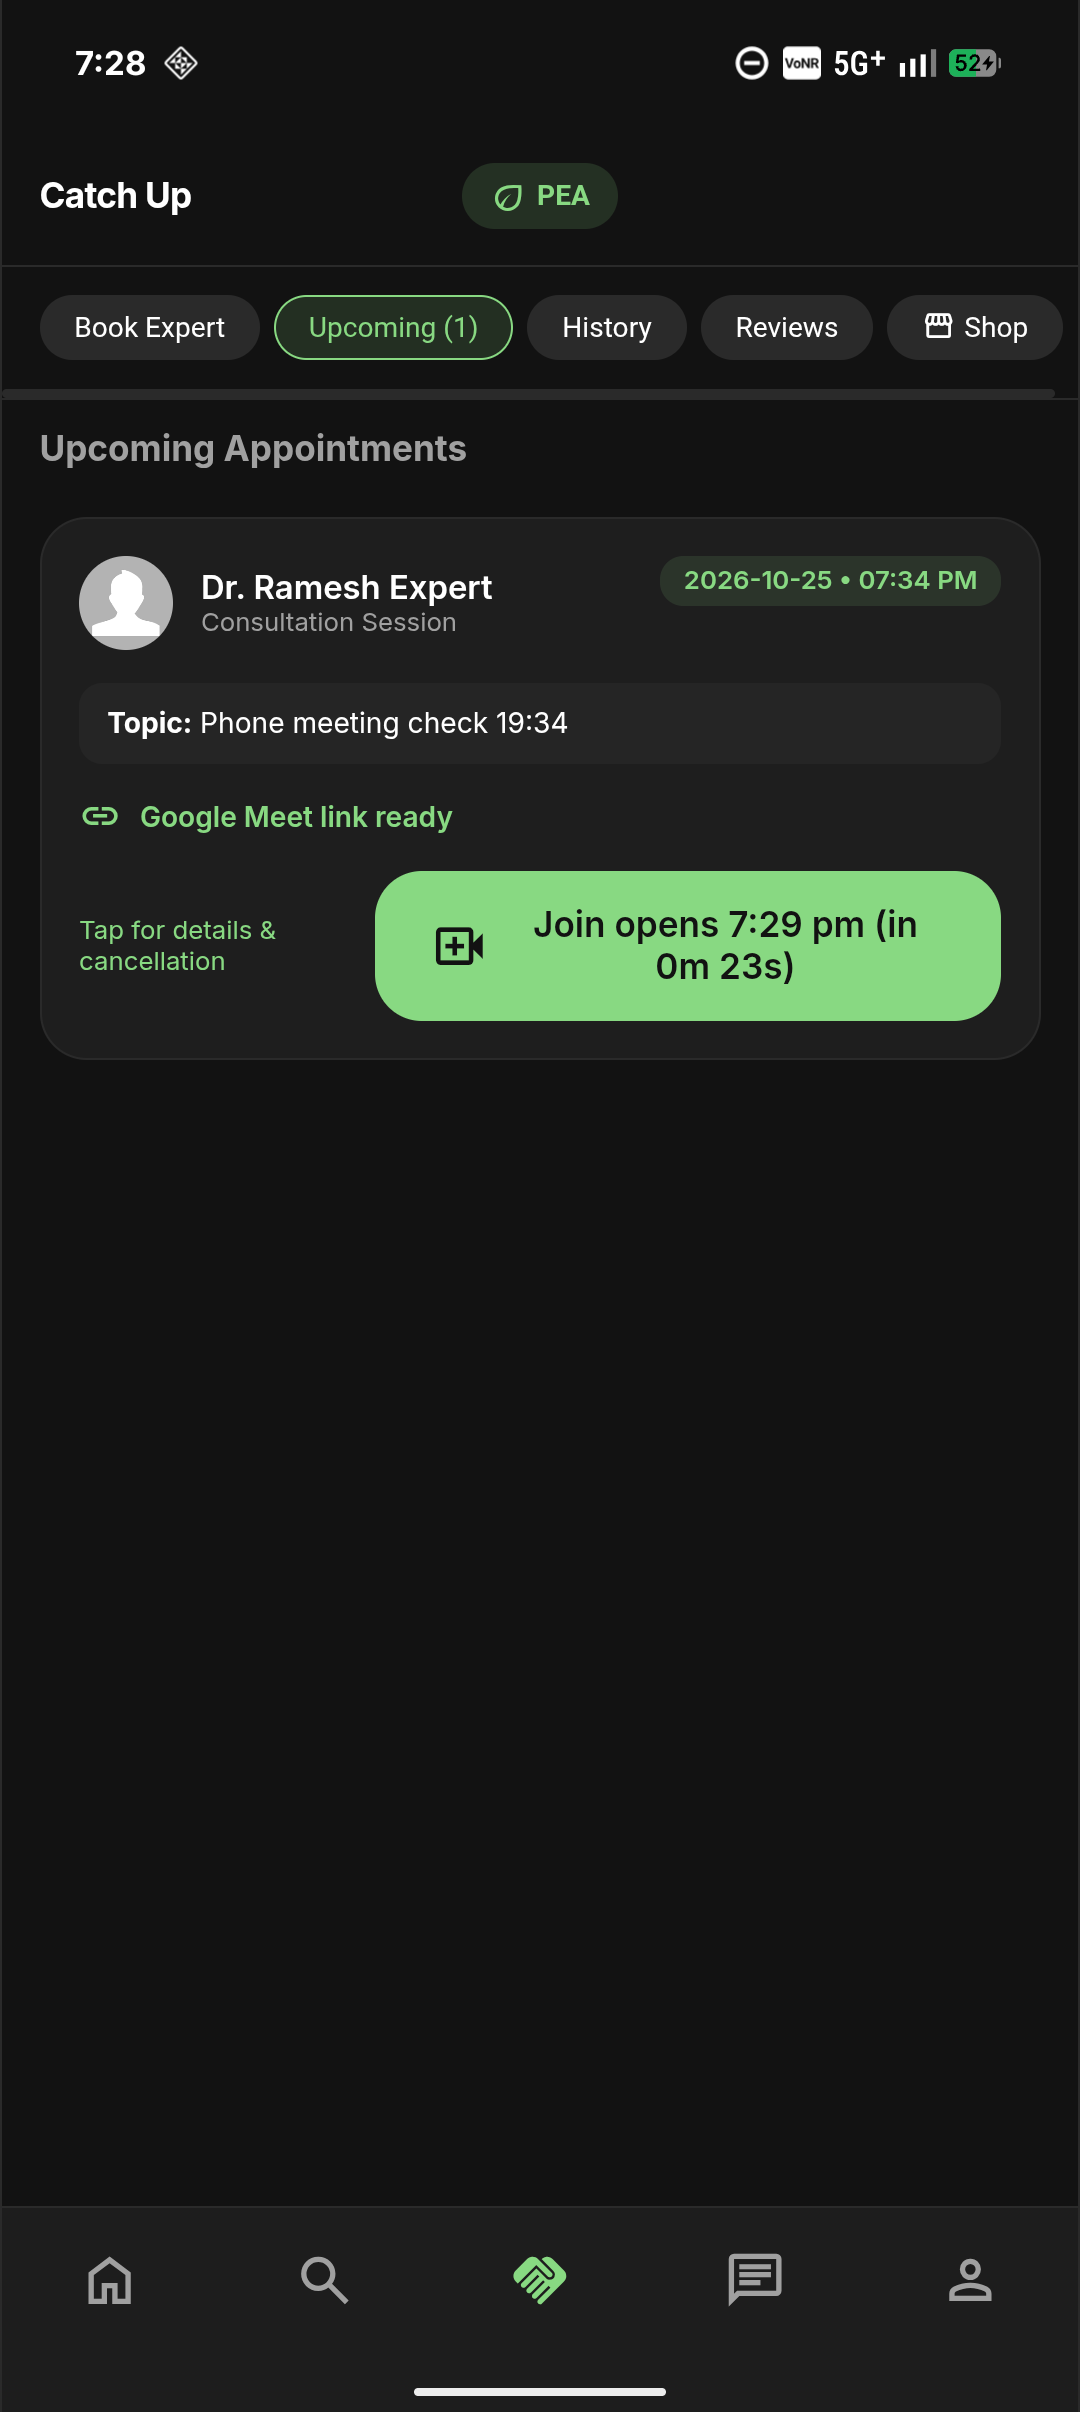
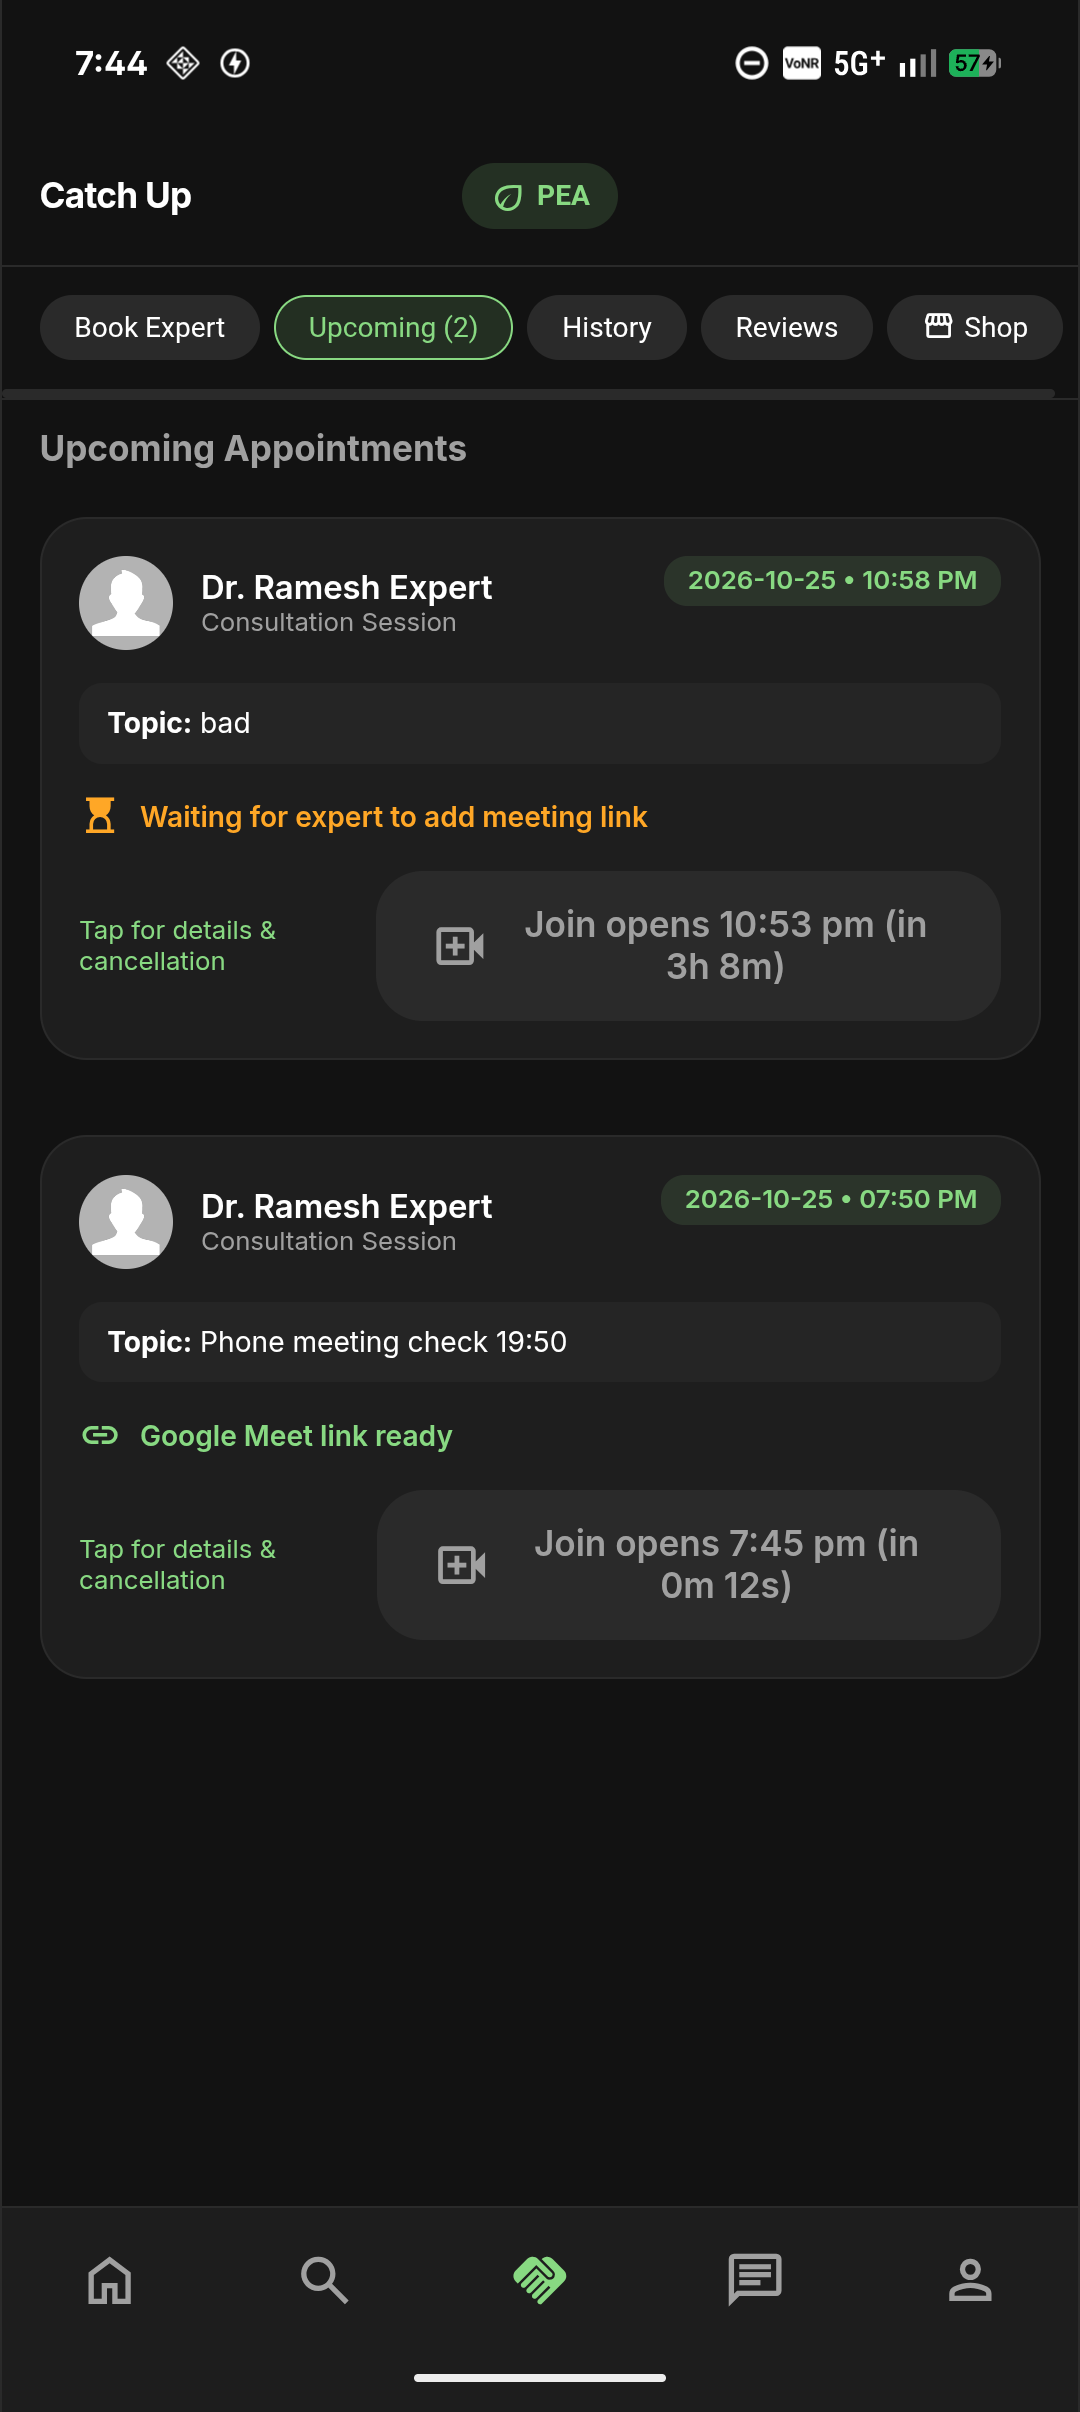
test: phone re-check of the inactive Join button style (staging)

diff --git a/TEST_RESULTS.md b/TEST_RESULTS.md
@@ -429,3 +429,7 @@ Owner connected the phone over USB. Staging APK installed next to the production
 * Still not verified on a device: push delivery (no Firebase), the password-reset e-mail link (needs a real inbox),
   an actual Google Meet call between two people (external service).
 * Staging after the runs: no open phone-test bookings, no pending demo payments.
+* Follow-up (same evening): disabled buttons restyled (`.btn:disabled`: grey, no glow; `Button` ignores its `style`
+  prop, so the Join button's old opacity never applied). Rebuilt staging APK re-checked on the phone: Meet check
+  **PASS**, 0 ANR, 0 crash, production app unchanged; "Join opens … (in …)" is grey before the window and turns into the
+  green "Join Meeting" by itself at T−5 min (screenshots 26, 27).
